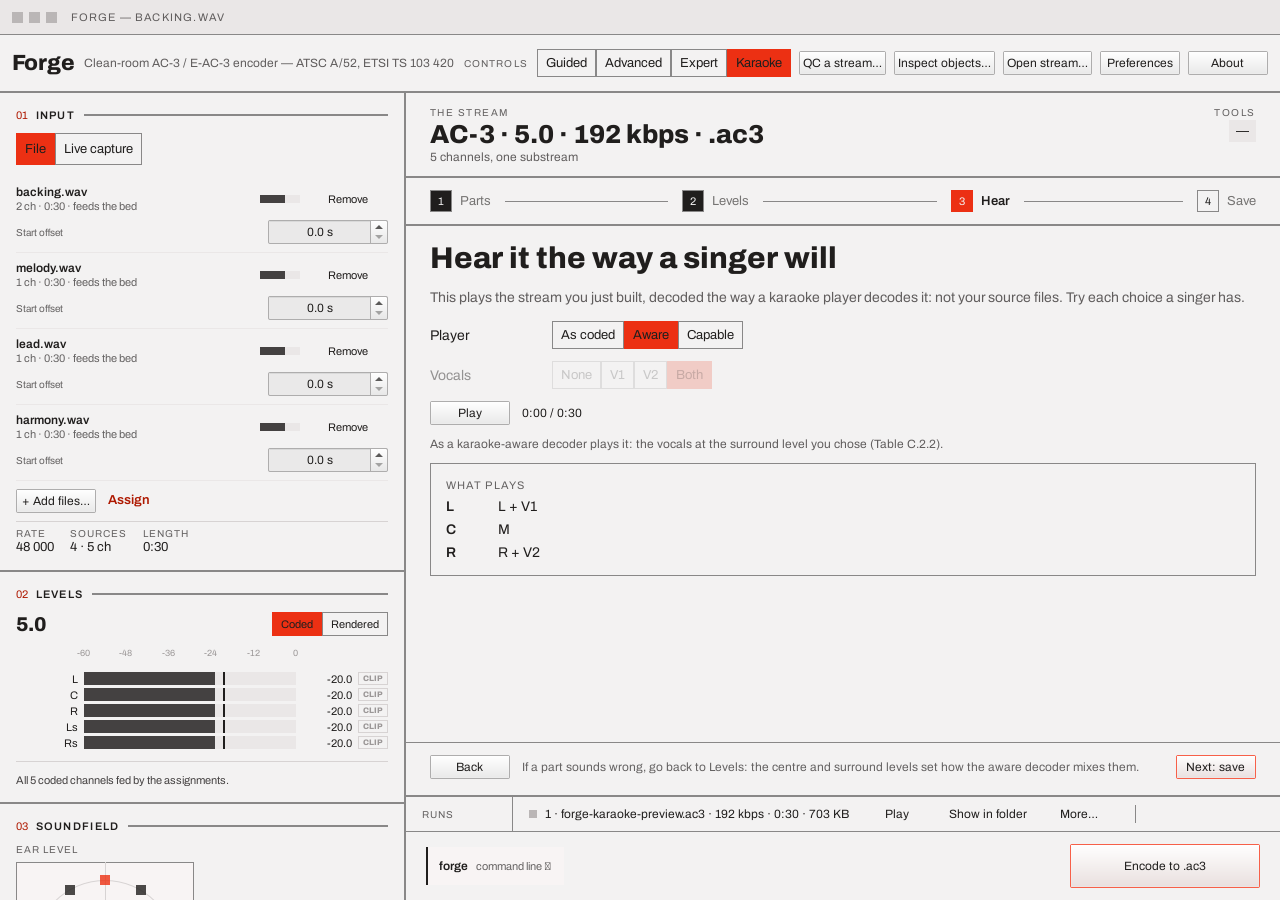
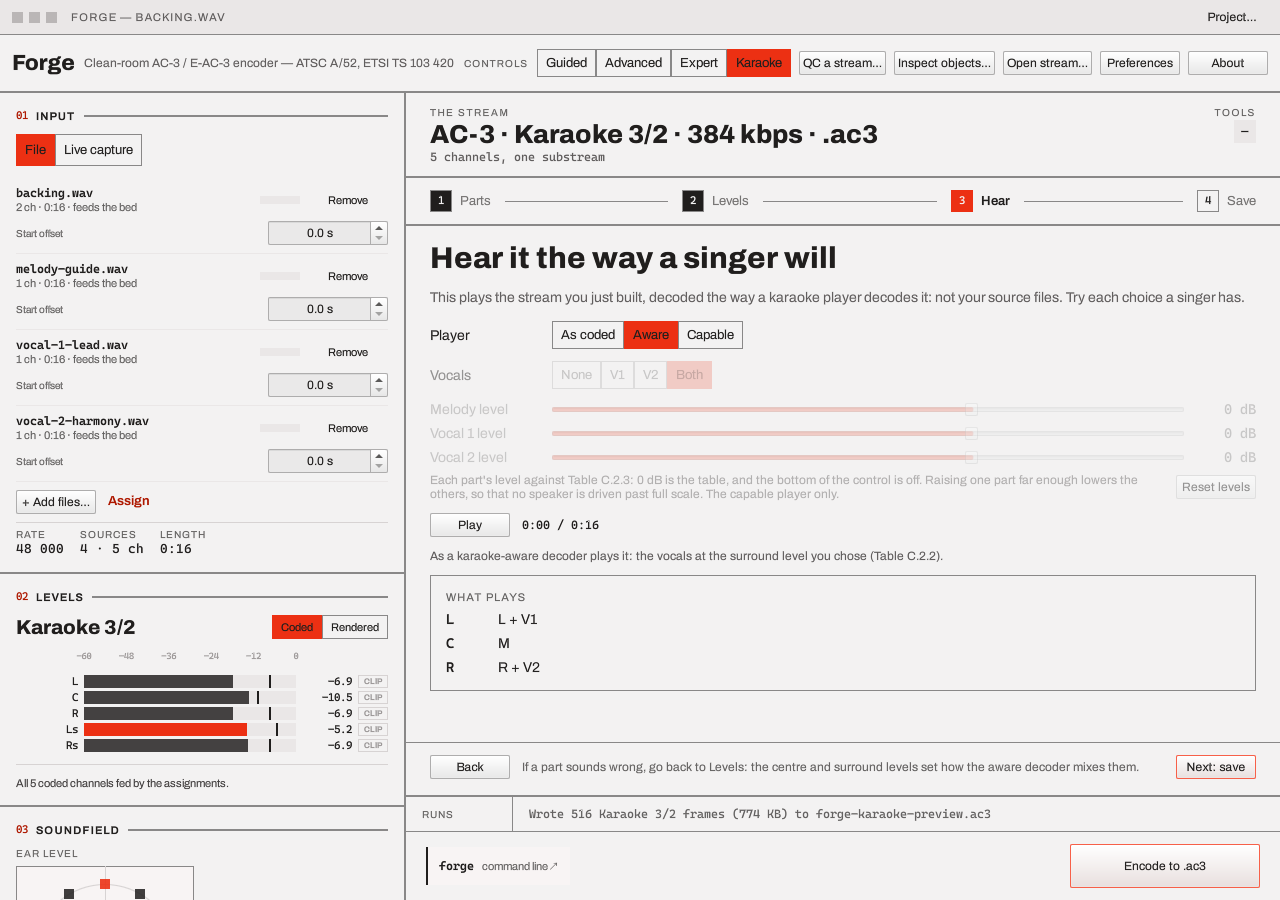
docs(karaoke): the guide's pictures of the Forge GUI, the Play page and the singer view taken again, with the command of each
The Forge GUI's two pictures were from a harness that was thrown away and
showed the program under its old name. They are taken again with the example's
project open, and the flow now has a picture at each step: Parts (with its LFE
row), Levels, Hear and Save. Hearth's Play page and singer view are taken again
from the running program, and the window that times the lyrics has a picture,
in the guide and on Hearth's page.

All seven are of build c4fa8b161, taken by tools/pictures/take_pictures.py on a
hidden Windows desktop, and each caption gives the command that took it.

The four pictures of Hearth's Karaoke page (two in the guide, the German and
Arabic ones on Hearth's page) are not retaken: on main the page's right-hand
column, where the Microphone card is, is cut off at 1280 pixels, and the fix is
on another branch. Their captions and their manifest entries say they are of
2026-10-12 and give the command that takes them again.

diff --git a/docs/karaoke/index.md b/docs/karaoke/index.md
@@ -85,7 +85,7 @@ an AC-3 or E-AC-3 track) and choose the **Karaoke** page (`Ctrl+7`).
 
 ![Hearth's Karaoke page: the stream, its reproduction, the words, and what each speaker plays](screenshots/hearth-karaoke-page.png)
 
-*The "Auld Lang Syne" example, 1.8 s in and held there: the word being sung is part way through its fill. Taken from the running window with `hearth --smoke-shot ... --open ... --seek 1800` ([Hearth's command line](../hearth/index.md#command-line)).*
+*The "Auld Lang Syne" example, 1.8 s in and held there: the word being sung is part way through its fill. `hearth --smoke-shot karaoke.png --page karaoke --open examples/karaoke/auld-lang-syne/auld-lang-syne.ac3 --seek 1800` ([Hearth's command line](../hearth/index.md#command-line)). The picture is of 2026-10-12, before the page had its [Microphone card](#sing-into-a-microphone), which is now the first card of the right-hand column.*
 
 **Reproduction** is the decoder's choice, kept across starts:
 
@@ -181,7 +181,8 @@ under Capable changes.
 
 ![Hearth's Karaoke page for the duet example: each line is tagged with who sings it and whether the playing vocal guides it](screenshots/hearth-karaoke-duet.png)
 
-*"Leave Her, Johnny", 6.3 s in: the crew's line, indented and tagged **guide** because both vocals play.*
+*"Leave Her, Johnny", 6.3 s in: the crew's line, indented and tagged **guide** because both vocals play. `hearth --smoke-shot duet.png --page karaoke --open examples/karaoke/leave-her-johnny/leave-her-johnny.ac3 --seek 6300`, of 2026-10-12 as the picture above is.*
+
 ### SubRip
 
 A `.srt` file is read as lyrics too, which is what subtitle tools and ripped karaoke subtitles write:
@@ -296,7 +297,7 @@ item with none gets no card, so the Play page is as it was for every other strea
 
 ![Hearth's Play page for a karaoke stream: the queue, and a Lyrics card above what is playing](screenshots/hearth-play-lyrics.png)
 
-*The Play page at its default size, 1.8 s into the example.*
+*The Play page at its default size, 1.8 s into the example. `hearth --smoke-shot play.png --page play --open examples/karaoke/auld-lang-syne/auld-lang-syne.ac3 --seek 1800`.*
 
 ### A CD+G disc
 
@@ -334,12 +335,27 @@ for parity: a rip has already been through the drive's error correction.
 second in steps of 10 ms, on top of the file's own `[offset:]`. It is kept across starts. A file's
 times are rarely right to the frame against a particular output.
 
+### Timing a file by hand
+
+**Time the lyrics…** on the Karaoke page's Lyrics card opens a window that gives a file its times
+as the song plays: `Space` as each line starts, then as each word starts, with your reaction time
+taken off each press. A file that already has times opens with them, so the window is also where
+one wrong line or word is put right: choose it, then stamp it again or move it 10 ms at a time.
+**Save** writes the `.lrc` beside the song and keeps the file that was there once, as `.lrc.bak`.
+[Timing the lyrics](../hearth/index.md#timing-the-lyrics) has every step.
+
+![The timing window over the Karaoke page: the Lines and Words passes, Play and the position, the example's four lines each with its time and its words, and under them Stamp again, the 10 ms nudges, the singer of a line and the reaction time](screenshots/hearth-timing-window.png)
+
+*The example's own file in the timing window, 5.2 s in: every line has a time already, and its words are drawn solid because the file gives their times. `hearth --smoke-shot timing.png --page timing --setting "microphone/takesFolder=C:/Users/you/Documents/Hearth takes" --open examples/karaoke/auld-lang-syne/auld-lang-syne.ac3 --seek 5200`.*
+
 ### The singer view
 
 `F11`, or **Full screen** on the Karaoke page's lyrics or the Play page's, opens the words alone,
 large, on a dark screen. `Esc` leaves it, and `Space` pauses.
 
-![The singer view: the line being sung large, the queue beside it, and the position bar and controls at the bottom](screenshots/hearth-singer-view.png)
+![The singer view: the line being sung large between the line before it and the two after, the song that comes next named at the top right, and the position bar, Previous, Play, Next, Queue and the Vocals chooser at the bottom](screenshots/hearth-singer-view.png)
+
+*The example 5.2 s in, with the duet queued behind it. `hearth --smoke-shot singer.png --page singer --open examples/karaoke/auld-lang-syne/auld-lang-syne.ac3 --open examples/karaoke/leave-her-johnny/leave-her-johnny.ac3 --seek 5200`: a capture draws the view in the window, where `F11` gives it the whole screen.*
 
 A position bar, Previous, Play/Pause, Next, **Queue** and the **Vocals** chooser stay at the
 bottom, so a singer can move about in the song, pause, skip, pick the next song or change which
@@ -507,24 +523,40 @@ somebody else's work: keep it for yourself.
 ## Make one in the Forge GUI
 
 Choose **Karaoke** in the Controls switch. Four steps build the stream from the recordings it is
-made of:
+made of. The pictures are of the [example's project](#try-it), opened with **Project…** in the
+title strip.
 
-![The Forge GUI's Karaoke flow at the Parts step: a backing, a melody guide and two vocals, each its own file](screenshots/forge-karaoke-parts.png)
+**1 · Parts.** Give each part its own file: a **stereo backing**, and optionally a **mono melody
+guide**, **Vocal 1**, **Vocal 2** and an **LFE**. Or give **one multichannel file** whose WAV
+speakers are already named. The page shows the coding mode the parts make, why, and what is wrong
+with anything that cannot be used.
 
-1. **Parts.** Give each part its own file: a **stereo backing**, and optionally a **mono melody
-   guide**, **Vocal 1** and **Vocal 2**. Or give **one multichannel file** whose WAV speakers are
-   already named. The page shows the coding mode the parts make, why, and what is wrong with
-   anything that cannot be used.
-2. **Levels.** The centre level (the melody guide in a stereo fold) and the surround level (the
-   vocals), which an aware decoder applies.
-3. **Hear.** The stream is encoded and played back the way a karaoke player decodes it: as coded,
-   aware, or capable with the vocals you choose. It plays the encoded stream, not your source
-   files.
-4. **Save.** The format (AC-3, the default, or E-AC-3), the file type (the raw stream, or
-   Matroska, MP4 or MPEG-TS), the bit rate, the equivalent `forge encode` (or `forge eac3-encode`)
-   command, and the encode.
+![The Forge GUI's Karaoke flow at the Parts step: a backing, a melody guide and two vocals, each its own file, an LFE row with nothing chosen, and under them the coding mode 3/2 with its checks](screenshots/forge-karaoke-parts.png)
 
-![The Hear step: the stream built, played as an aware decoder plays it, with which part reaches which speaker](screenshots/forge-karaoke-hear.png)
+*`forge-gui --smoke-shot parts.png project=examples/karaoke/auld-lang-syne/auld-lang-syne.forgeproj karaokeStep=parts height=1100`*
+
+**2 · Levels.** The centre level (the melody guide in a stereo fold) and the surround level (the
+vocals), which an aware decoder applies.
+
+![The Levels step: the centre level and the surround level, each with what an aware decoder does with it](screenshots/forge-karaoke-levels.png)
+
+*`forge-gui --smoke-shot levels.png project=examples/karaoke/auld-lang-syne/auld-lang-syne.forgeproj karaokeStep=levels`*
+
+**3 · Hear.** The stream is encoded and played back the way a karaoke player decodes it: as coded,
+aware, or capable with the vocals you choose and a level for each part. It plays the encoded
+stream, not your source files.
+
+![The Hear step: the stream built and ready to play as an aware decoder plays it, the vocals and the part levels closed until Capable is chosen, and which parts reach which speaker](screenshots/forge-karaoke-hear.png)
+
+*`forge-gui --smoke-shot hear.png project=examples/karaoke/auld-lang-syne/auld-lang-syne.forgeproj karaokeStep=hear`: the capture waits for the stream to be built, and plays nothing.*
+
+**4 · Save.** The format (AC-3, the default, or E-AC-3), the file type (the raw stream, or
+Matroska, MP4 or MPEG-TS), the bit rate, the lyrics file that goes beside the stream, the
+equivalent `forge encode` (or `forge eac3-encode`) command, and the encode.
+
+![The Save step: the format, the file type, the bit rate, the Lyrics row with no file chosen, and the same encode as a forge command line](screenshots/forge-karaoke-save.png)
+
+*`forge-gui --smoke-shot save.png project=examples/karaoke/auld-lang-syne/auld-lang-syne.forgeproj karaokeStep=save`*
 
 Each coded channel is written into the same draft the other tiers edit, so switching to Expert
 afterwards shows the same bed, `bsmod` and assignments. The Forge GUI guide has the details of each

diff --git a/CHANGELOG.md b/CHANGELOG.md
@@ -1090,6 +1090,18 @@ The sections below contain the complete change list and fixes.
   second process ends before it has a window. A launch with no file, with `--seek`, or a capture
   runs on its own, and a Hearth that does not answer is not waited for. Hearth now links Qt
   Network for it (`QLocalServer`).
+- **A capture can be put where a picture needs it.** `forge-gui --smoke-shot <png>
+  project=<file.forgeproj> karaokeStep=parts|levels|hear|save` opens a project as **Project…**,
+  **Open** does and goes to a step of the Karaoke flow, which `tier=karaoke` alone opened empty.
+  The grab waits for the Hear step to build its stream, and the run fails with the reason for a
+  project that does not open as it stands, a step the flow has not got or cannot show, and, as
+  before, a name that is no property. `hearth --smoke-shot` takes `--page singer` (the singer
+  view, drawn in the window at its own size and not on the whole screen), `--page timing` (the
+  window that times the lyrics, opened once the file is loaded), `--size <width>x<height>`, and
+  `--setting <key>=<value>`, which puts a value in the capture's scratch settings store and is
+  dropped, with a line in the log, when there is no capture. What a launch hands to a running
+  Hearth has its `--page` applied as a launch's own is
+  ([Hearth's command line](docs/hearth/index.md#command-line)).
 - **A karaoke duet example, "Leave Her, Johnny"** (`examples/karaoke/leave-her-johnny/`): a
   traditional capstan shanty as printed in Colcord's *Roll and Go* (1924), one verse of 19.2 s, in
   which the shantyman (vocal 1) and the crew (vocal 2) sing different lines and each is silent while
@@ -4374,6 +4386,19 @@ The sections below contain the complete change list and fixes.
 - CONTRIBUTING.md lists the four AC-4 directories and their header layout. The file I/O, Rust API
   and signing pages were checked against their headers and corrected.
 - ROADMAP.md lists the Hearth work as it stands and the gaps found in the documentation.
+- **Every picture in the documentation says how it was made, and the karaoke guide's can be taken
+  again.** `tools/pictures/pictures.json` has an entry for each picture a page shows: the program,
+  the command line and environment that make it, and the build it was last taken from.
+  `tools/pictures/take_pictures.py` takes the ones that are command lines again from a build, on a
+  Windows desktop nobody sees, and `tools/checks/check_doc_pictures.py` fails a page that embeds a
+  PNG with no entry. The [karaoke guide](docs/karaoke/index.md)'s pictures of the Forge GUI were
+  from a harness that was thrown away and showed the program under its old name: they are taken
+  again with the example's parts loaded, at Parts (with its LFE row), Levels, Hear and Save. Its
+  pictures of Hearth's Play page and singer view are taken again, and it has one of the window
+  that times the lyrics. Each caption gives the command that took its picture. The four pictures
+  of Hearth's Karaoke page (two in the guide, and the German and Arabic ones on the Hearth page)
+  are still of 2026-10-12, before the page had its Microphone card, and their captions say so:
+  they wait for the page to fit its window at that width.
 - ROADMAP.md and the plan index were checked against the tree on 2026-10-13. The Hearth table had
   two rows twice over and now has one each, with a row for Hearth for Android; the AC-4 table says
   the decoder runs on the ESP32-P4, ESP32-S3 and (as fixed point) the C6 and that a sink built with

diff --git a/docs/hearth/index.md b/docs/hearth/index.md
@@ -158,6 +158,10 @@ gets no card.
 **Time the lyrics...** on the Lyrics card is for an item whose words have no times, or whose times
 are for lines and not words. It opens a window over the page, and the item plays as usual:
 
+![The timing window over the Karaoke page: the Lines and Words passes, Play and the position, four lines each with its time and its words, and under them Stamp again, the 10 ms nudges, the singer of a line and the reaction time](../karaoke/screenshots/hearth-timing-window.png)
+
+*The karaoke example's own file, which has its times already: `hearth --smoke-shot timing.png --page timing --setting "microphone/takesFolder=C:/Users/you/Documents/Hearth takes" --open examples/karaoke/auld-lang-syne/auld-lang-syne.ac3 --seek 5200`.*
+
 1. **Lines.** Press `Space`, or the button, as each line starts. A press is taken to be the
    **reaction time** late (120 ms to start with, set in the window, kept across starts), and that is
    taken off, so that what is stored is where the sound was and not where the finger came down.
@@ -293,11 +297,11 @@ and a string with no translation shows in English.
 
 ![Hearth's Karaoke page in German](screenshots/karaoke-de.png)
 
-*The Karaoke page in German, with the duet example 6.3 s in (`ICLFORGE_GUI_LOCALE=de`). The words of the lyrics are the file's own; the header's other pages and the stream's file name are not translated.*
+*The Karaoke page in German, with the duet example 6.3 s in: `ICLFORGE_GUI_LOCALE=de hearth --smoke-shot de.png --page karaoke --open examples/karaoke/leave-her-johnny/leave-her-johnny.ac3 --seek 6300`. The words of the lyrics are the file's own; the header's other pages and the stream's file name are not translated.*
 
 ![Hearth's Karaoke page in Arabic, mirrored](screenshots/karaoke-ar.png)
 
-*The same page in Arabic: the layout mirrors, and the bundled Noto Sans Arabic face is used.*
+*The same page in Arabic (`ICLFORGE_GUI_LOCALE=ar`): the layout mirrors, and the bundled Noto Sans Arabic face is used. Both pictures are of 2026-10-12, before the page had its Microphone card.*
 
 **The translations are machine-made and no speaker of any of the six has read them.** Settings
 says so under the language chooser, as the Forge GUI and Crucible do under theirs. They reuse the

diff --git a/planning/karaoke.md b/planning/karaoke.md
@@ -143,8 +143,12 @@ when this page was corrected.
   script run in the test binaries, with a generated stream and a fake output, and the bundled
   fonts on `QT_QPA_FONTDIR`. *Since:* Hearth has `--smoke-shot` (`--shot` with network discovery
   off, so it raises no firewall prompt), `--open <file>` and `--seek <ms>` (PR #1361), and the
-  guide's Karaoke page screenshot is the running window's. The singer view is still the harness's,
-  since a full-screen window is resized by an offscreen platform to its 800 px screen.
+  guide's Karaoke page screenshot is the running window's. *Since then:* every picture is the
+  running program's and can be taken again. `forge-gui --smoke-shot` opens a project and goes to a
+  step of the Karaoke flow (`project=`, `karaokeStep=`), `hearth --smoke-shot` shows the singer
+  view in the window and the timing window (`--page singer`, `--page timing`), and
+  `tools/pictures/pictures.json` has the command line, the environment and the build of each
+  picture, which `tools/pictures/take_pictures.py` takes again.
 
 ### Not measured
 
